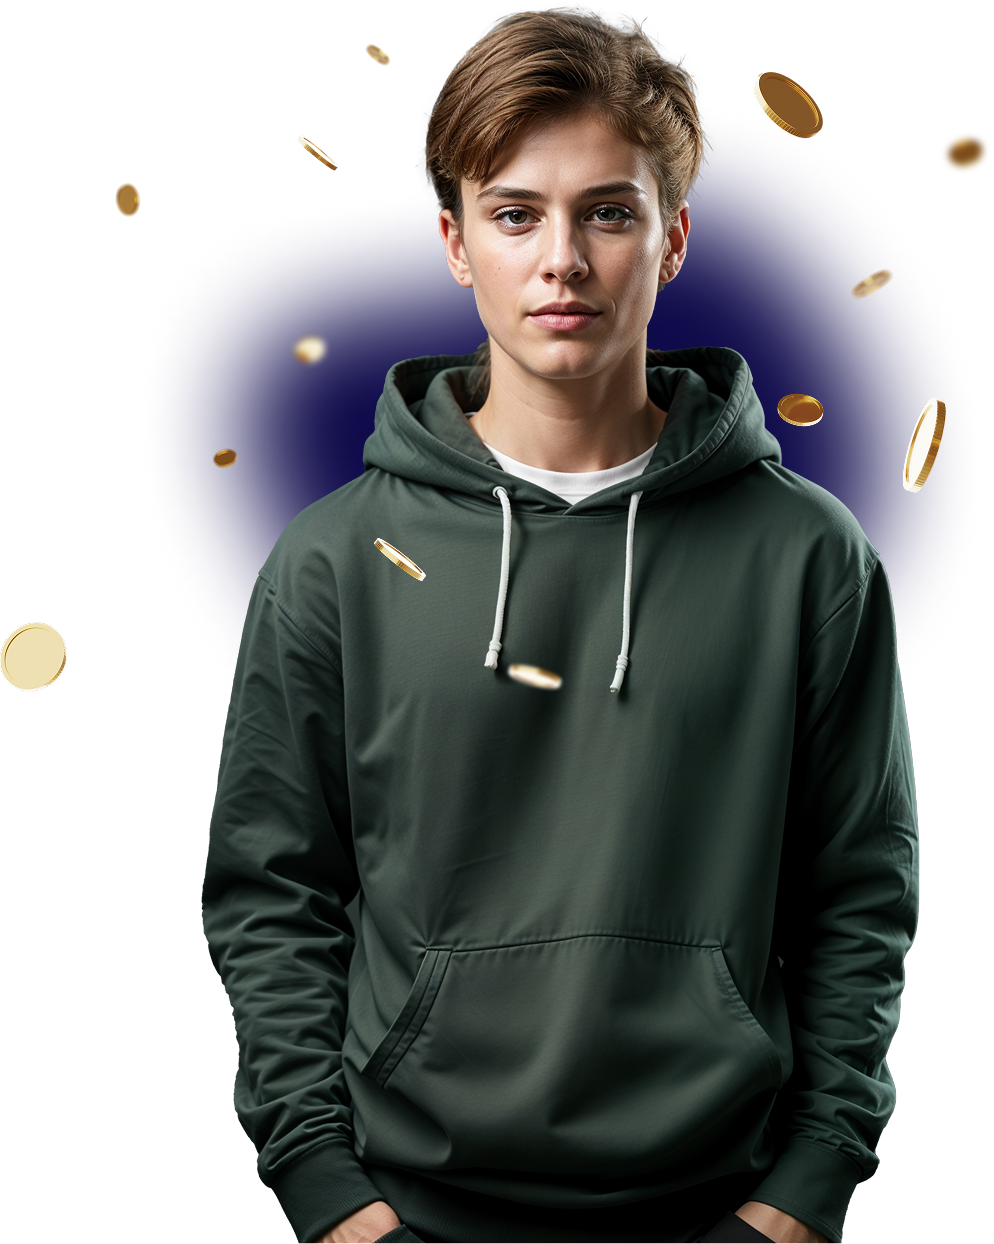
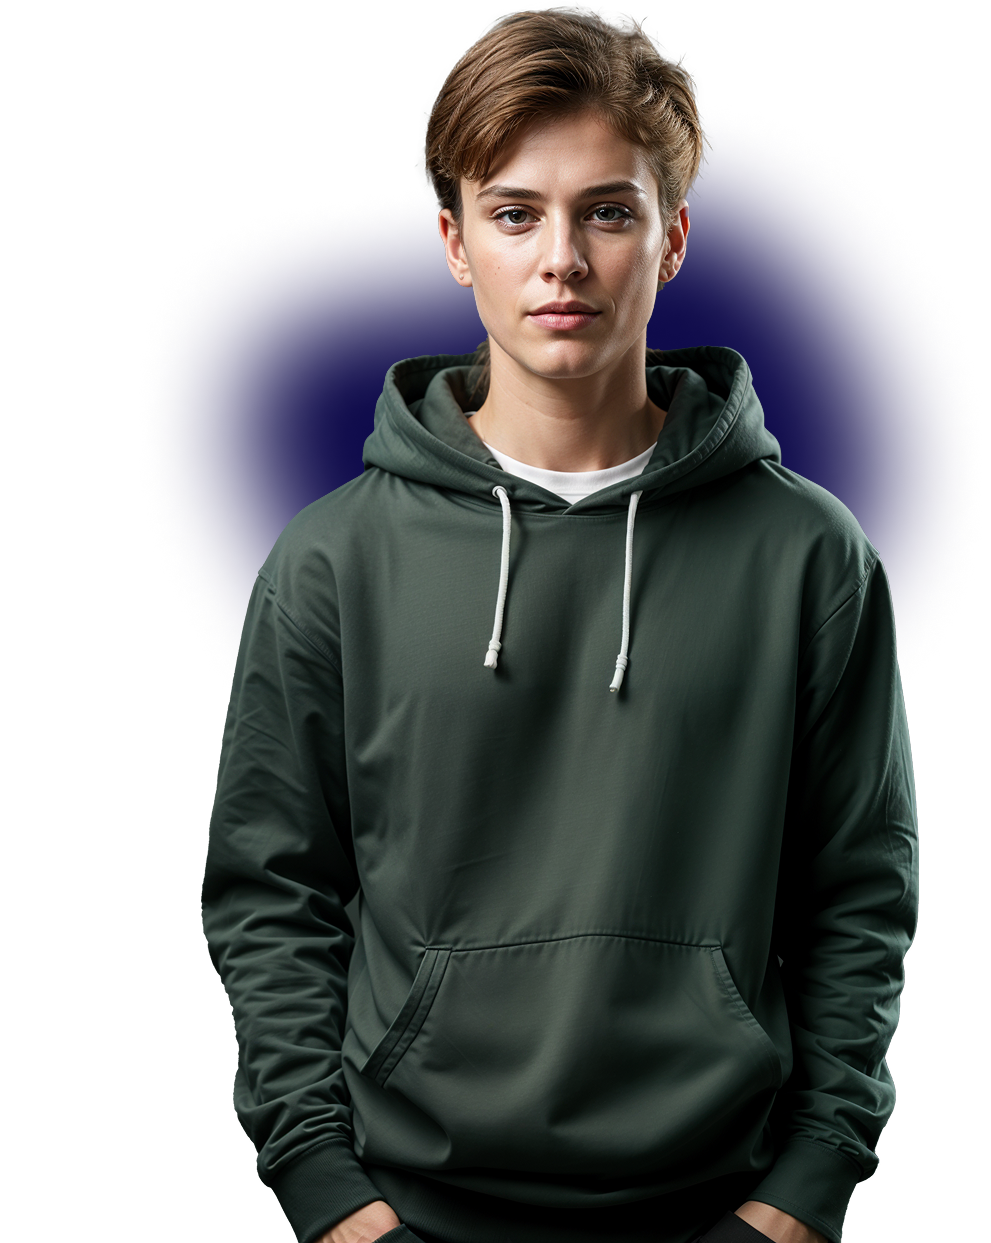
added hero parallax

diff --git a/src/styles/framework.scss b/src/styles/framework.scss
@@ -1650,6 +1650,109 @@ body {
 			@include button_block;
 		}
 	}
+
+	&__coins {
+		--coefficient: 1;
+		--dx: 0px;
+		--dy: 0px;
+
+		display: contents;
+
+		&-layer-1 {
+			--coefficient: 4;
+			display: contents;
+		}
+		&-layer-2 {
+			--coefficient: 2;
+			display: contents;
+		}
+		&-layer-3 {
+			--coefficient: 1;
+			display: contents;
+		}
+		
+		img {
+			position: absolute;
+			display: block;
+
+			width: auto;
+			height: auto;
+			scale: 0.5;
+
+			transition: 0.1s;
+
+			@media (hover: hover) {
+				transform: translateX(calc(var(--dx) * var(--coefficient))) translateY(calc(var(--dy) * var(--coefficient)));
+			}
+		}
+
+		&-1 {
+			top: 3% !important;
+			bottom: auto !important;
+			left: 36% !important;
+			right: auto !important;
+		}
+		&-2 {
+			top: 13% !important;
+			bottom: auto !important;
+			left: 10% !important;
+			right: auto !important;
+		}
+		&-3 {
+			top: 9% !important;
+			bottom: auto !important;
+			left: 27% !important;
+			right: auto !important;
+		}
+		&-4 {
+			top: 3% !important;
+			bottom: auto !important;
+			left: auto !important;
+			right: 13% !important;
+		}
+		&-5 {
+			top: 9% !important;
+			bottom: auto !important;
+			left: auto !important;
+			right: -3% !important;
+		}
+		&-6 {
+			top: auto !important;
+			bottom: 69% !important;
+			left: 27% !important;
+			right: auto !important;
+		}
+		&-7 {
+			top: 20% !important;
+			bottom: auto !important;
+			left: auto !important;
+			right: 8% !important;
+		}
+		&-8 {
+			top: auto !important;
+			bottom: 61% !important;
+			left: 20% !important;
+			right: auto !important;
+		}
+		&-9 {
+			top: auto !important;
+			bottom: 64% !important;
+			left: auto !important;
+			right: 15% !important;
+		}
+		&-10 {
+			top: auto !important;
+			bottom: 56% !important;
+			left: auto !important;
+			right: -1% !important;
+		}
+		&-11 {
+			top: auto !important;
+			bottom: 42% !important;
+			left: -3% !important;
+			right: auto !important;
+		}
+	}
 }
 
 .account-menu {

diff --git a/src/scripts/hero-parallax.js b/src/scripts/hero-parallax.js
@@ -1,0 +1,28 @@
+const MAX_DELTA = 10
+
+document.querySelectorAll('[data-hero-coins]').forEach(container => {
+  let windowHeight = window.innerHeight
+  let windowWidth = window.innerWidth
+
+  let centerX = windowWidth / 2
+  let centerY = windowHeight / 2
+  
+  document.addEventListener('mousemove', (e) => {
+    const pageX = e.pageX
+    const pageY = e.pageY
+
+    const dx = (centerX - pageX) / centerX * MAX_DELTA
+    const dy = (centerY - pageY) / centerY * MAX_DELTA
+
+    container.style.setProperty('--dx', `${dx}px`)
+    container.style.setProperty('--dy', `${dy}px`)
+  })
+
+  window.addEventListener('resize', () => {
+    windowHeight = window.innerHeight
+    windowWidth = window.innerWidth
+
+    centerX = windowWidth / 2
+    centerY = windowHeight / 2
+  })
+})

diff --git a/src/scripts/index.js b/src/scripts/index.js
@@ -15,6 +15,7 @@ import './slider.js';
 import './comments-sort-button.js';
 import './rate-cards.js';
 import './faq.js';
+import './hero-parallax.js';
 
 window.app = window.app || {};
 window.app.hoverMedia = window.matchMedia("(any-hover: hover)");
